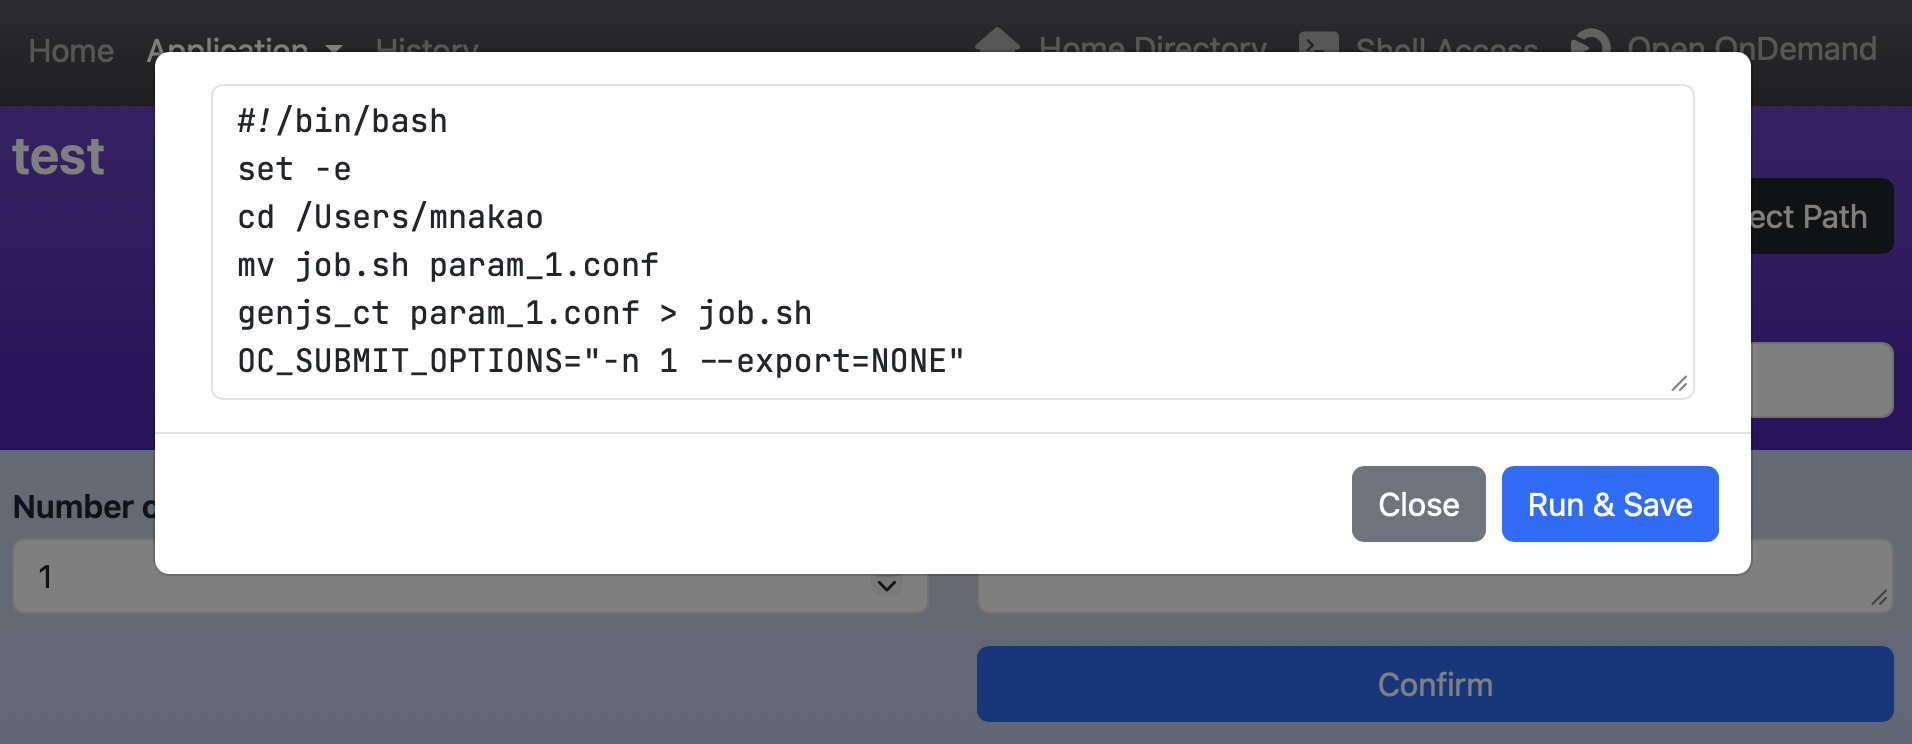
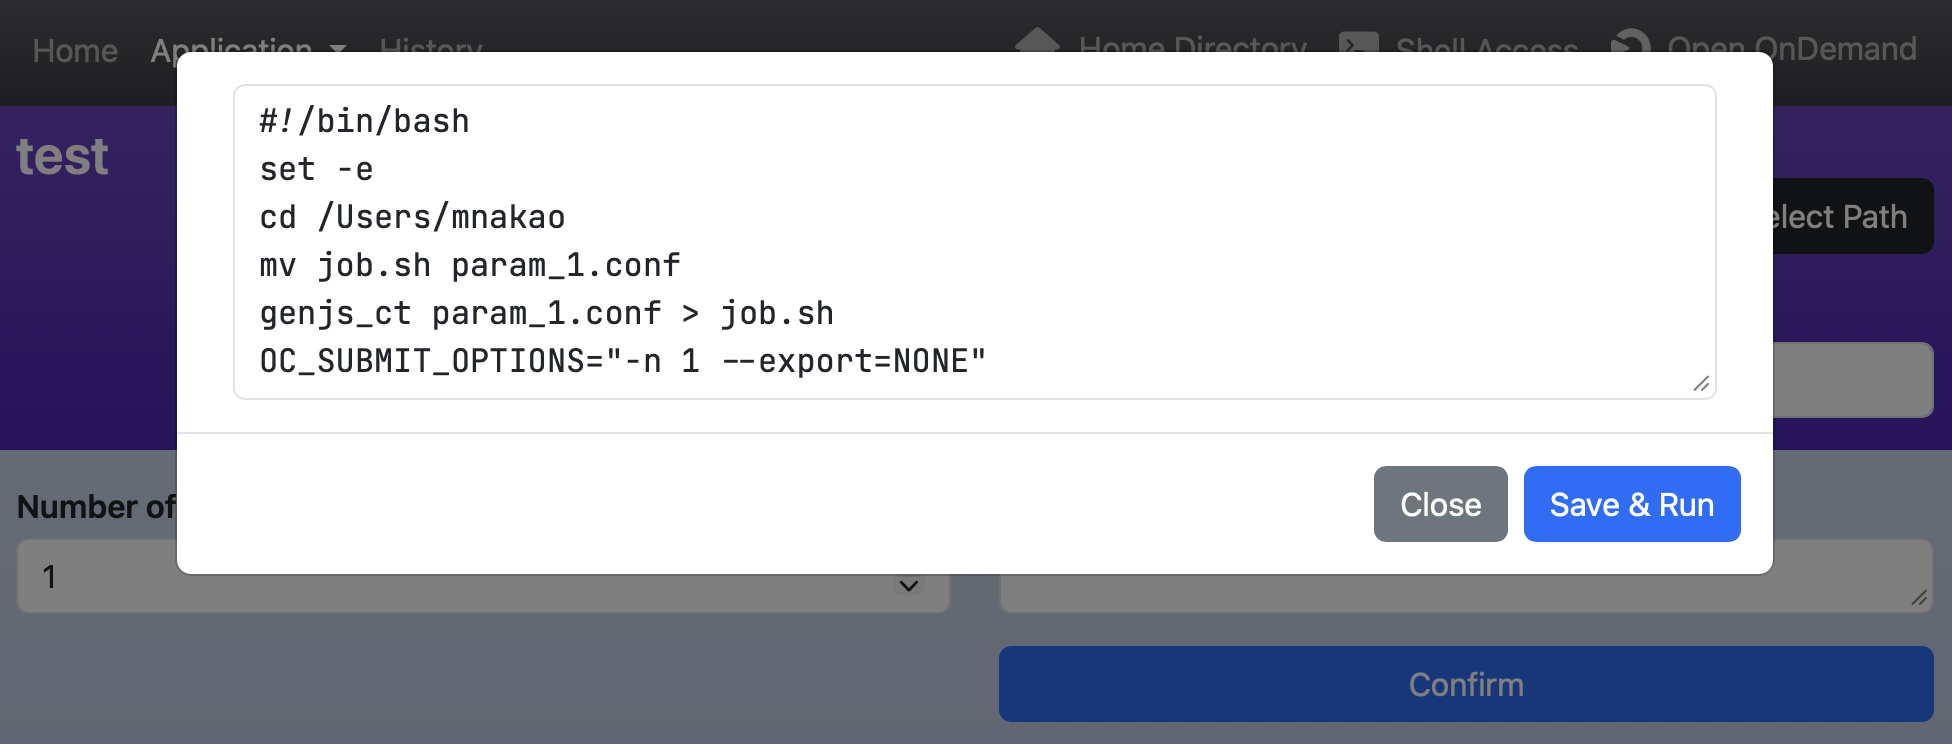
minor fix

diff --git a/docs/application_ja.html b/docs/application_ja.html
@@ -727,7 +727,7 @@ submit: |
   genjs_ct param_#{nodes}.conf > #{OC_SCRIPT_NAME}
   OC_SUBMIT_OPTIONS="-n 1 --export=NONE"</pre>
       <p>
-	前処理のコマンドをジョブ投入前に閲覧したい場合、<code>action: confirm</code>を記述します。その場合、前処理の内容は<code>content</code>に記述します。
+	<code>submit</code>セクションの内容をジョブ投入前に閲覧したい場合、<code>action: confirm</code>を記述します。その場合、処理の内容は<code>content</code>に記述します。
       </p>
       <pre>form:
   nodes:
@@ -744,11 +744,11 @@ submit:
     genjs_ct param_#{nodes}.conf > #{OC_SCRIPT_NAME}
     OC_SUBMIT_OPTIONS="-n 1 --export=NONE"</pre>
       <p>
-	この設定を行うと、ボタンのラベルが「Submit」から「Confirm」に変化します。「Confirm」ボタンをクリックすると、変数に値が代入された前処理のコマンドが表示されます。前処理のコマンドは編集することも可能です。「Submit」ボタンをクリックすると、前処理の実行とジョブ投入が行われます。注意点として、スクリプト中でエラーが発生したときに、前処理を中断するには<code>set -e</code>コマンドが必要です。
+	この設定を行うと、ボタンのラベルが「Submit」から「Confirm」に変化します。「Confirm」ボタンをクリックすると、変数に値が代入された<code>submit</code>セクションの内容が表示されます。その内容は編集することも可能です。「Submit」ボタンをクリックすると、<code>submit</code>セクションの内容の実行後にジョブが投入されます。注意点として、スクリプト中でエラーが発生したときに、処理を中断するには<code>set -e</code>コマンドが必要です。
       </p>
       <img src="img/submit.png" width="600" alt="Submit">
       <p>
-	なお、<code>script</code>セクションで<code>action: save</code>も設定した場合、前処理を行った後、<code>script</code>セクションの内容を保存するという動作になります。「Confirm」の画面下のボタンは下記のように「Submit」から「Run &amp; Save」という表示になります。
+	なお、<code>script</code>セクションで<code>action: save</code>も設定した場合、<code>script</code>セクションの内容を保存した後、<code>submit</code>セクションの内容を実行するという動作になります。「Confirm」の画面下のボタンは下記のように「Submit」から「Save &amp; Run」という表示になります。
       </p>
       <img src="img/submit2.png" width="600" alt="Submit">
       

diff --git a/docs/application.html b/docs/application.html
@@ -780,8 +780,8 @@ submit: |
   genjs_ct param_#{nodes}.conf > #{OC_SCRIPT_NAME}
   OC_SUBMIT_OPTIONS="-n 1 --export=NONE"</pre>
       <p>
-	If you want to view the commands of the pre-processing before submitting the job, write <code>action: confirm</code>.
-	In that case, write the details of the pre-processing in <code>content</code>.
+	If you want to view the commands in the <code>submit</code> section before submitting the job, write <code>action: confirm</code>.
+	In that case, write the details of the commands in <code>content</code>.
       </p>
       <pre>form:
   nodes:
@@ -799,14 +799,15 @@ submit:
     OC_SUBMIT_OPTIONS="-n 1 --export=NONE"</pre>
       <p>
 	Once you make this setting, the button label will change from "Submit" to "Confirm."
-	Clicking the "Confirm" button will display the commands of the pre-processing with values assigned to the variables.
-	You can also edit the contents of the pre-processing.
-	Clicking the "Submit" button will execute the pre-processing and submit the job.
-	Note that if an error occurs in the script, you will need to use the <code>set -e</code> command to interrupt the pre-processing.
+	Clicking the "Confirm" button will display the commands in the <code>submit</code> section with values assigned to the variables.
+	You can also edit the contents.
+	Clicking the "Submit" button will execute the commands in the <code>submit</code> section and submit the job.
+	Note that if an error occurs in the script, you will need to use the <code>set -e</code> command to interrupt the commands.
       </p>
       <img src="img/submit.png" width="600" alt="Submit">
       <p>
-	If you also set <code>action: save</code> in the <code>script</code> section, the contents of the <code>script</code> section will be saved after preprocessing. The button at the bottom of the "Confirm" screen will change from "Submit" to "Run & Save," as shown below.
+	If you also set <code>action: save</code> in the <code>script</code> section, its contents will be saved before executing the commands in the <code>submit</code> section.
+	The button at the bottom of the "Confirm" screen will change from "Submit" to "Save &amp; Run," as shown below.
       </p>
       <img src="img/submit2.png" width="600" alt="Submit">
       

diff --git a/docs/install_ja.html b/docs/install_ja.html
@@ -161,7 +161,7 @@ url: https://&lt;your Open OnDemand URL&gt;/pun/sys/OpenComposer/Slurm</pre>
 
       <h2 id="jobscheduler">4. ジョブスケジューラの追加</h2>
       <p>
-	ジョブスケジューラを追加したい場合、スーパークラスSchedulerが定義された<code>lib/scheduler.rb</code>を参考にして、<code>lib/schedulers/</code>以下にジョブスケジューラのためのRubyスクリプトを作成してください。下記のPBS Proの例（<code>lib/schedulers/pbspro.rb</code>）ようにSchedulerクラスを継承してください。ジョブを投入する<code>submit()</code>メソッド、ジョブをキャンセルする<code>cancel()</code>メソッド、ジョブの情報を問い合わせる<code>query()</code>メソッドを定義する必要があります。
+	ジョブスケジューラを追加したい場合、スーパークラスSchedulerが定義された<code>lib/scheduler.rb</code>を参考にして、<code>lib/schedulers/</code>以下にジョブスケジューラのためのRubyスクリプトを作成してください。下記のPBS Pro（<code>lib/schedulers/pbspro.rb</code>）のようにSchedulerクラスを継承してください。ジョブを投入する<code>submit()</code>メソッド、ジョブをキャンセルする<code>cancel()</code>メソッド、ジョブの情報を問い合わせる<code>query()</code>メソッドを定義する必要があります。
       </p>
       <pre>class Pbspro &lt; Scheduler</pre>
       <p>
